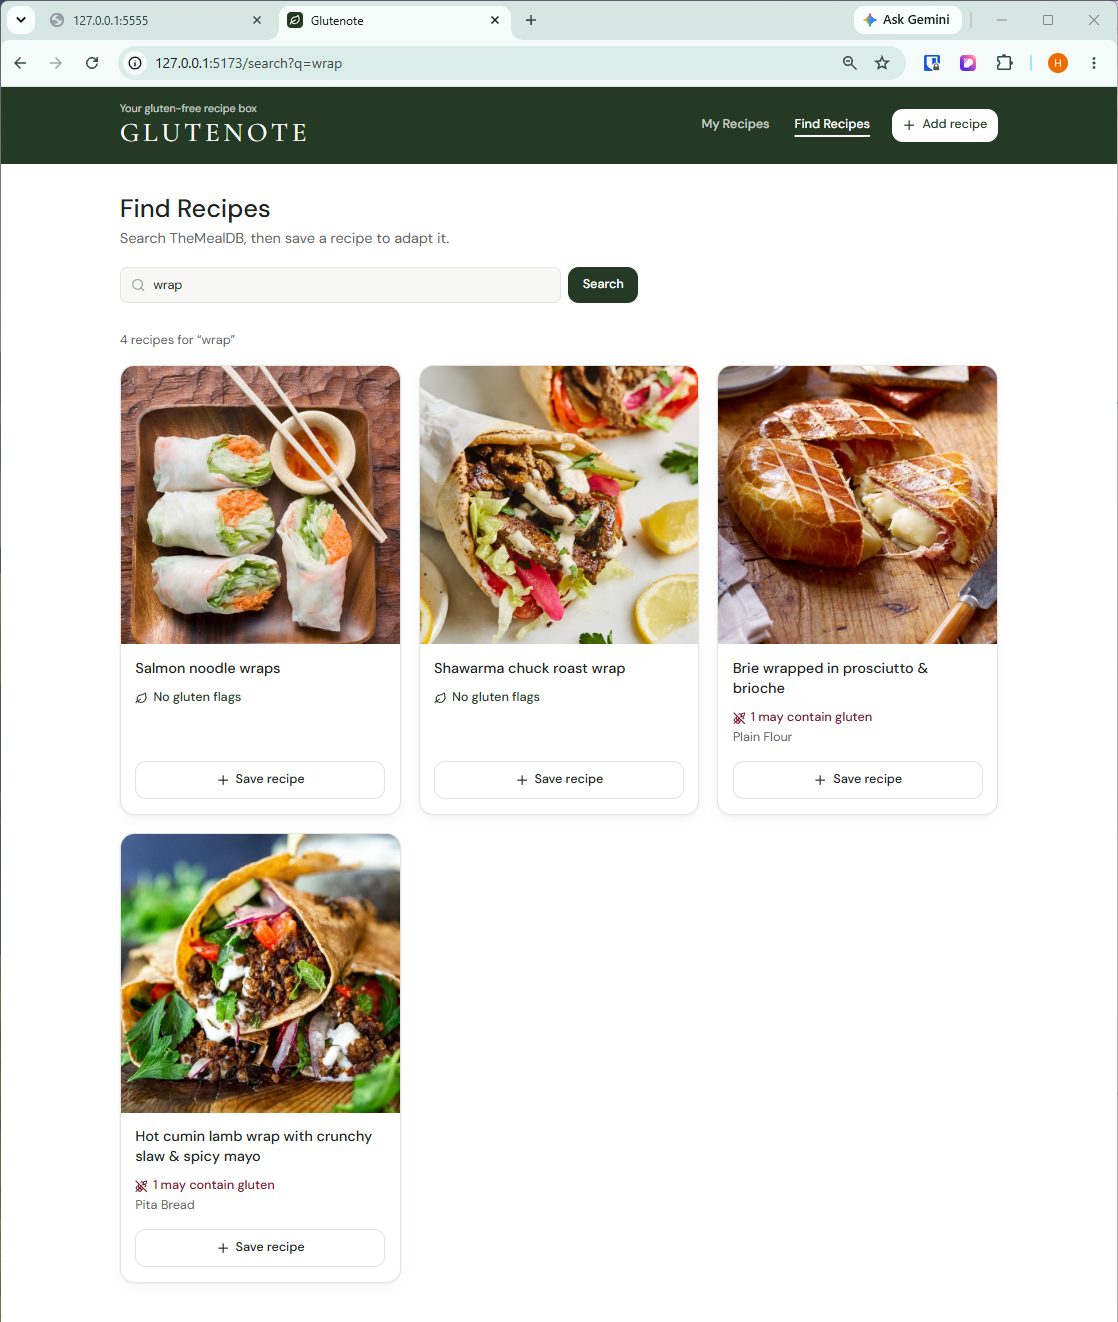
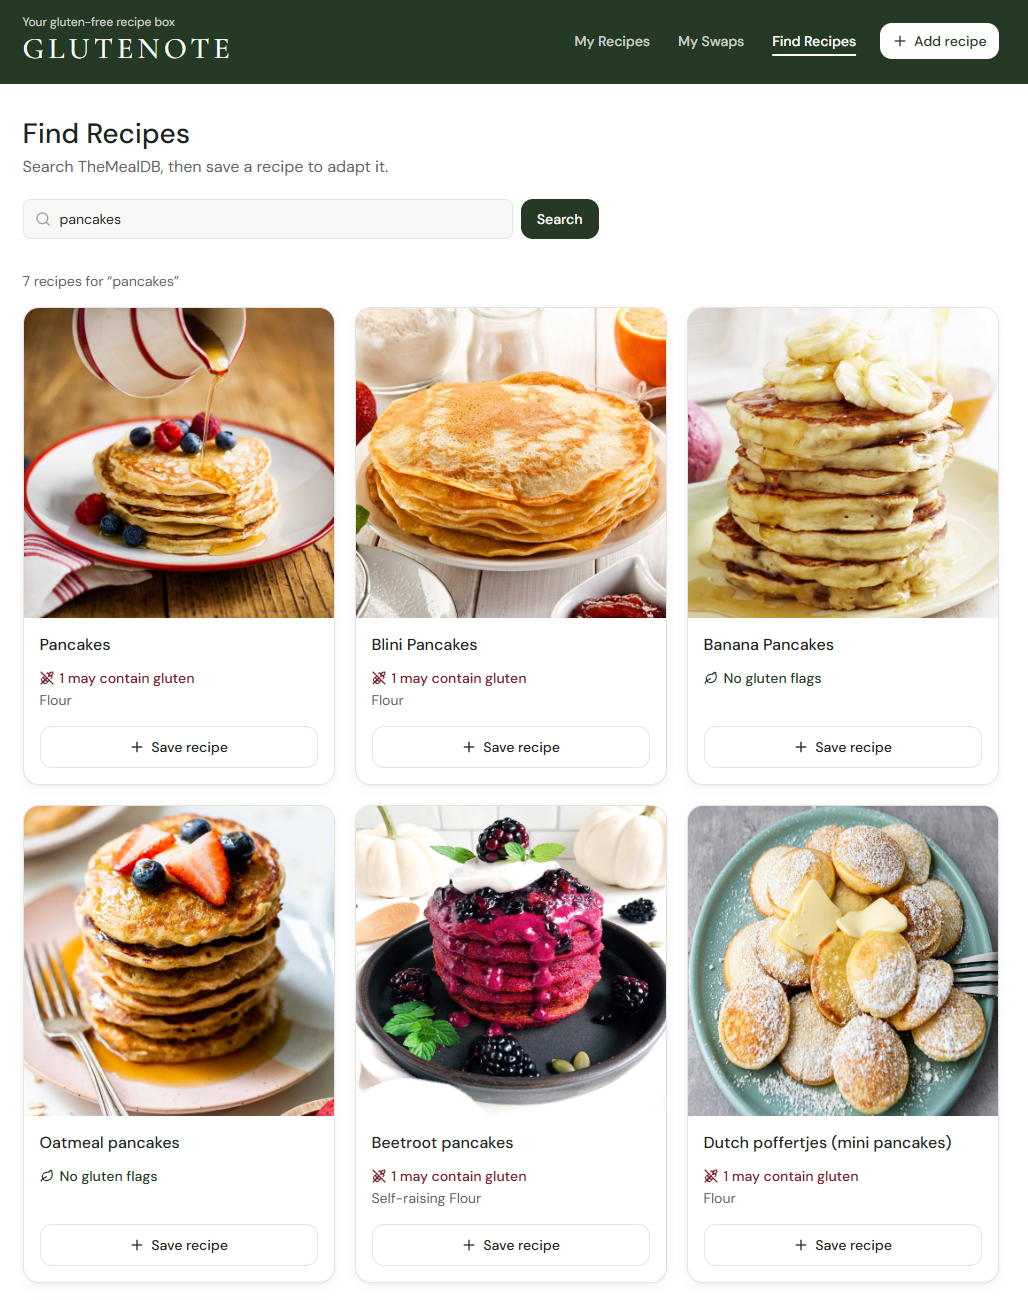
Update README screenshots with ratings, swap suggestions, and My Swaps

diff --git a/README.md b/README.md
@@ -27,9 +27,13 @@ Built with React, Flask, and PostgreSQL for the Flatiron School Software Enginee
 
 ## Screenshots
 
-| Recipe detail | Find Recipes |
+| Recipe detail | Suggested swaps |
 |---|---|
-| ![Recipe detail with swaps](screenshots/recipe-detail.png) | ![Search results with gluten preview](screenshots/find-recipes.png) |
+| ![Recipe detail with rating and swap buttons](screenshots/recipe-detail.png) | ![Used before suggestions in the swap editor](screenshots/swap-suggestions.png) |
+
+| My Swaps | Find Recipes |
+|---|---|
+| ![My Swaps page](screenshots/my-swaps.png) | ![Search results with gluten preview](screenshots/find-recipes.png) |
 
 ## Tech Stack
 
